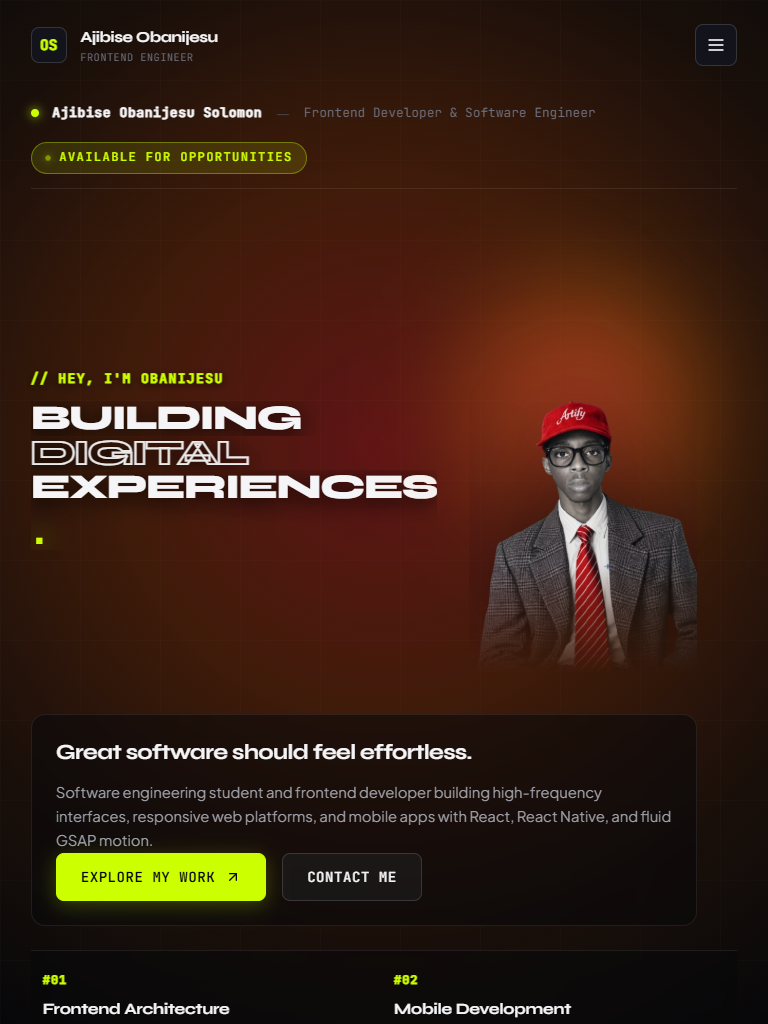
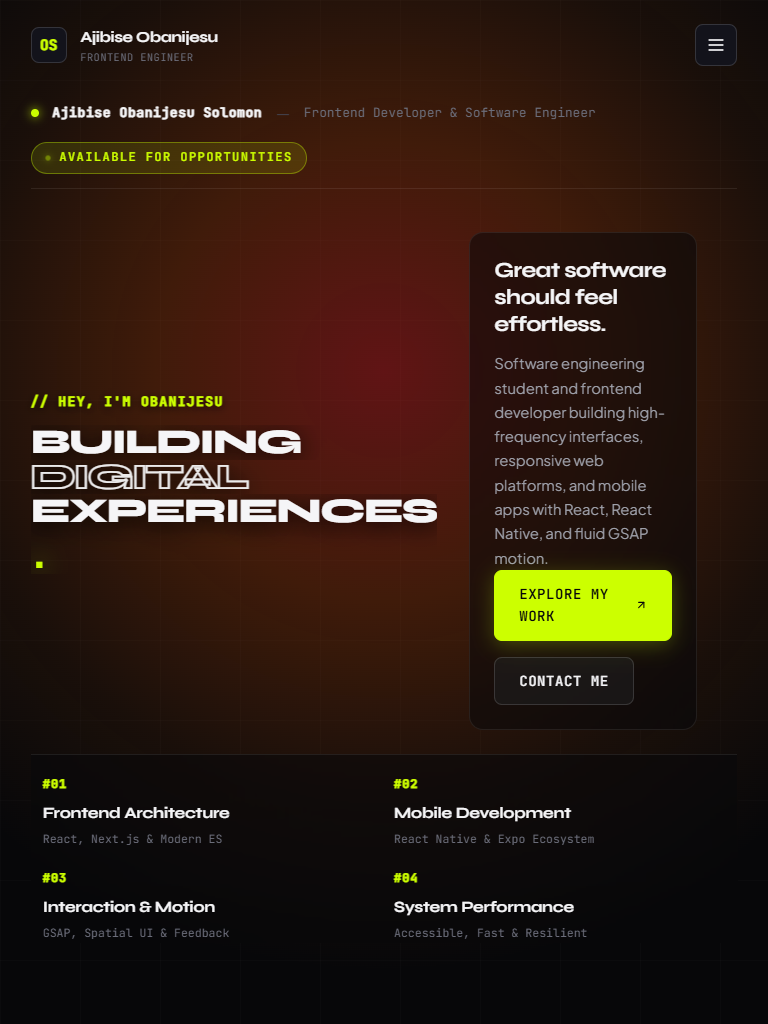
Hero Image Removal

Changed region(s): [[0.0312, 0.2188, 0.9688, 1.0]]

diff --git a/src/sections/Hero.jsx b/src/sections/Hero.jsx
@@ -45,10 +45,13 @@ export default function Hero() {
         gsap.set(metaElements, { y: 20, opacity: 0 });
         gsap.set(subtextRef.current, { y: 24, opacity: 0 });
         gsap.set(ctaButtons, { y: 20, opacity: 0 });
-        gsap.set(portraitRef.current, { y: 40, opacity: 0, scale: 0.94 });
-        gsap.set(portraitGlowRef.current, { scale: 0.7, opacity: 0, xPercent: -50, yPercent: -50 });
+        // [PORTRAIT TEMPLATE - UNCOMMENT TO RESTORE PORTRAIT ANIMATION]
+        // if (portraitRef.current) gsap.set(portraitRef.current, { y: 40, opacity: 0, scale: 0.94 });
+        // if (portraitGlowRef.current) gsap.set(portraitGlowRef.current, { scale: 0.7, opacity: 0, xPercent: -50, yPercent: -50 });
         gsap.set(disciplineItems, { y: 20, opacity: 0 });
-        gsap.set(scrollIndicatorRef.current, { opacity: 0, y: -10 });
+        if (scrollIndicatorRef.current) {
+          gsap.set(scrollIndicatorRef.current, { opacity: 0, y: -10 });
+        }
 
         // Stage B: Coordinated Entrance
         const tl = gsap.timeline({
@@ -56,53 +59,38 @@ export default function Hero() {
           delay: 0.15,
         });
 
-        // 1. Radiant glow and portrait glide up
+        // 1. Headline reveals through clipping masks
         tl.to(
-          portraitGlowRef.current,
+          headlineLines,
           {
-            scale: 1,
+            yPercent: 0,
             opacity: 1,
-            xPercent: -50,
-            yPercent: -50,
-            duration: 1.2,
-            ease: 'power2.out',
+            duration: 1.05,
+            stagger: 0.12,
+            ease: 'power4.out',
           },
-          0
+          0.1
+        );
+
+        // [PORTRAIT ENTRANCE TEMPLATE - UNCOMMENT TO RESTORE PORTRAIT ENTRANCE]
+        // if (portraitGlowRef.current) {
+        //   tl.to(portraitGlowRef.current, { scale: 1, opacity: 1, xPercent: -50, yPercent: -50, duration: 1.2, ease: 'power2.out' }, 0);
+        // }
+        // if (portraitRef.current) {
+        //   tl.to(portraitRef.current, { y: 0, opacity: 1, scale: 1, duration: 1.1, ease: 'power3.out' }, 0.1);
+        // }
+
+        // 2. Metadata, manifesto, and CTAs stagger in
+        tl.to(
+          metaElements,
+          {
+            y: 0,
+            opacity: 1,
+            duration: 0.6,
+            stagger: 0.08,
+          },
+          0.3
         )
-          .to(
-            portraitRef.current,
-            {
-              y: 0,
-              opacity: 1,
-              scale: 1,
-              duration: 1.1,
-              ease: 'power3.out',
-            },
-            0.1
-          )
-          // 2. Headline reveals through clipping masks
-          .to(
-            headlineLines,
-            {
-              yPercent: 0,
-              opacity: 1,
-              duration: 1.05,
-              stagger: 0.12,
-              ease: 'power4.out',
-            },
-            0.2
-          )
-          // 3. Metadata, manifesto, and CTAs stagger in
-          .to(
-            metaElements,
-            {
-              y: 0,
-              opacity: 1,
-              duration: 0.6,
-              stagger: 0.08,
-            },
-            0.4
-          )
           .to(
             subtextRef.current,
             {
@@ -132,8 +120,10 @@ export default function Hero() {
               stagger: 0.08,
             },
             0.7
-          )
-          .to(
+          );
+
+        if (scrollIndicatorRef.current) {
+          tl.to(
             scrollIndicatorRef.current,
             {
               opacity: 1,
@@ -142,6 +132,7 @@ export default function Hero() {
             },
             0.8
           );
+        }
 
         // Stage D: Scroll-linked transition into the Project Showcase
         const scrollTl = gsap.timeline({
@@ -154,17 +145,12 @@ export default function Hero() {
           },
         });
 
+        // [PORTRAIT SCROLL TEMPLATE - UNCOMMENT TO RESTORE PORTRAIT SCROLL]
+        // if (portraitRef.current) {
+        //   scrollTl.to(portraitRef.current, { y: 80, scale: 0.95, opacity: 0.25, ease: 'none' }, 0);
+        // }
+
         scrollTl
-          .to(
-            portraitRef.current,
-            {
-              y: 80,
-              scale: 0.95,
-              opacity: 0.25,
-              ease: 'none',
-            },
-            0
-          )
           .to(
             headlineRef.current,
             {
@@ -201,8 +187,10 @@ export default function Hero() {
               ease: 'none',
             },
             0
-          )
-          .to(
+          );
+
+        if (scrollIndicatorRef.current) {
+          scrollTl.to(
             scrollIndicatorRef.current,
             {
               opacity: 0,
@@ -210,6 +198,7 @@ export default function Hero() {
             },
             0
           );
+        }
       });
 
       return () => mm.revert();
@@ -375,7 +364,7 @@ export default function Hero() {
                   letterSpacing: '-0.04em',
                   textTransform: 'uppercase',
                   color: 'transparent',
-                  WebkitTextStroke: '1.75px rgba(245, 245, 247, 0.95)',
+                  WebkitTextStroke: '2px rgba(245, 245, 247, 0.95)',
                   textShadow: '0 4px 24px rgba(0, 0, 0, 0.95)',
                 }}
               >
@@ -384,50 +373,55 @@ export default function Hero() {
             </div>
 
             <div className="text-mask-wrapper">
-              <h1
-                className="hero-headline-line hero-title-word"
-                style={{
-                  fontSize: 'clamp(2.4rem, 5.8vw, 5.8rem)',
-                  fontWeight: '800',
-                  lineHeight: 0.95,
-                  letterSpacing: '-0.04em',
-                  textTransform: 'uppercase',
-                  color: 'var(--text-primary)',
-                  display: 'inline-block',
-                  textShadow: '0 4px 24px rgba(0, 0, 0, 0.95)',
-                }}
-              >
-                EXPERIENCES
-              </h1>
-              <span
-                className="hero-headline-line hero-title-word"
-                style={{
-                  fontSize: 'clamp(2.4rem, 5.8vw, 5.8rem)',
-                  fontWeight: '800',
-                  color: 'var(--accent)',
-                  lineHeight: 0.95,
-                  letterSpacing: '-0.04em',
-                  display: 'inline-block',
-                  textShadow: '0 0 25px var(--accent)',
-                }}
-              >
-                .
+              <span style={{ display: 'inline-flex', alignItems: 'baseline', whiteSpace: 'nowrap' }}>
+                <h1
+                  className="hero-headline-line hero-title-word"
+                  style={{
+                    fontSize: 'clamp(2.4rem, 5.8vw, 5.8rem)',
+                    fontWeight: '800',
+                    lineHeight: 0.95,
+                    letterSpacing: '-0.04em',
+                    textTransform: 'uppercase',
+                    color: 'var(--text-primary)',
+                    display: 'inline-block',
+                    textShadow: '0 4px 24px rgba(0, 0, 0, 0.95)',
+                  }}
+                >
+                  EXPERIENCES
+                </h1>
+                <span
+                  className="hero-headline-line hero-title-word"
+                  style={{
+                    fontSize: 'clamp(2.4rem, 5.8vw, 5.8rem)',
+                    fontWeight: '800',
+                    color: 'var(--accent)',
+                    lineHeight: 0.95,
+                    letterSpacing: '-0.04em',
+                    display: 'inline-block',
+                    textShadow: '0 0 25px var(--accent)',
+                  }}
+                >
+                  .
+                </span>
               </span>
             </div>
           </div>
 
-          {/* Centerpiece / Background Portrait Stage */}
+          {/* ======================================================================
+              [PORTRAIT TEMPLATE - COMMENTED OUT]
+              Uncomment the block below whenever you wish to restore the studio
+              portrait and radiant halo. All CSS rules & GSAP templates are preserved.
+              ====================================================================== */}
+          {/*
           <div ref={portraitRef} className="hero-portrait-stage">
-            {/* Radiant halo directly behind portrait head & shoulders */}
             <div ref={portraitGlowRef} className="hero-portrait-glow" />
-
-            {/* Subject Cutout Image */}
             <img
               src="/portrait.png"
               alt={PERSONAL_INFO.name}
               className="hero-portrait-img"
             />
           </div>
+          */}
 
           {/* Right Column: Supporting Manifesto & CTAs */}
           <div className="hero-manifesto-column">
@@ -541,6 +535,30 @@ export default function Hero() {
             </div>
           ))}
         </div>
+
+        {/* Subtle scroll indicator */}
+        <div
+          ref={scrollIndicatorRef}
+          className="hero-scroll-indicator"
+          style={{
+            display: 'flex',
+            alignItems: 'center',
+            justifyContent: 'center',
+            gap: '0.5rem',
+            paddingTop: '1.5rem',
+            paddingBottom: '0.25rem',
+            color: 'var(--text-dim)',
+            fontFamily: 'var(--font-mono)',
+            fontSize: '0.74rem',
+            letterSpacing: '0.1em',
+            textTransform: 'uppercase',
+            position: 'relative',
+            zIndex: 10,
+          }}
+        >
+          <ArrowDown size={14} style={{ color: 'var(--accent)' }} />
+          <span>Scroll to explore projects</span>
+        </div>
       </div>
 
       {/* Responsive media rules across Desktop, Tablet, and Mobile */}
@@ -586,8 +604,13 @@ export default function Hero() {
           .hero-headline-column {
             position: relative;
             z-index: 10;
-            max-width: clamp(360px, 46vw, 620px);
-            flex: 1 1 50%;
+            max-width: min(720px, calc(100% - 410px));
+            flex: 1 1 auto;
+          }
+          .hero-headline-column h1,
+          .hero-headline-column .hero-title-word {
+            font-size: clamp(2.2rem, 3.8vw, 4.2rem) !important;
+            line-height: 0.94 !important;
           }
           .hero-portrait-stage {
             position: absolute;
@@ -644,20 +667,22 @@ export default function Hero() {
             min-height: auto !important;
           }
           .hero-editorial-overlay {
-            display: grid !important;
-            grid-template-columns: 1.15fr 0.85fr !important;
+            display: flex !important;
+            flex-direction: column !important;
             gap: 2rem !important;
-            align-items: center !important;
+            align-items: flex-start !important;
             margin: 1.5rem 0 !important;
             position: relative !important;
           }
           .hero-headline-column {
             order: 1 !important;
             max-width: 100% !important;
+            width: 100% !important;
           }
-          .hero-headline-column h1 {
-            font-size: clamp(2rem, 4.5vw, 3.2rem) !important;
-            line-height: 1.0 !important;
+          .hero-headline-column h1,
+          .hero-headline-column .hero-title-word {
+            font-size: clamp(2.8rem, 6.2vw, 4.4rem) !important;
+            line-height: 0.95 !important;
           }
           .hero-portrait-stage {
             order: 2 !important;
@@ -684,8 +709,7 @@ export default function Hero() {
             filter: blur(45px) !important;
           }
           .hero-manifesto-column {
-            order: 3 !important;
-            grid-column: 1 / -1 !important;
+            order: 2 !important;
             max-width: 100% !important;
             margin: 0 !important;
             backdrop-filter: blur(8px) !important;
@@ -693,6 +717,11 @@ export default function Hero() {
             padding: 1.5rem !important;
             border-radius: 14px !important;
             border: 1px solid rgba(255, 255, 255, 0.08) !important;
+          }
+          /* When portrait stage template is uncommented, manifesto spans across beneath it */
+          .hero-portrait-stage ~ .hero-manifesto-column {
+            grid-column: 1 / -1 !important;
+            order: 3 !important;
           }
           .hero-disciplines-bar {
             display: grid !important;
@@ -722,12 +751,14 @@ export default function Hero() {
           .hero-headline-column {
             order: 1 !important;
             max-width: 100% !important;
+            width: 100% !important;
             text-align: left !important;
           }
-          .hero-headline-column h1 {
-            font-size: clamp(1.65rem, 7.5vw, 2.25rem) !important;
-            line-height: 1.0 !important;
-            letter-spacing: -0.03em !important;
+          .hero-headline-column h1,
+          .hero-headline-column .hero-title-word {
+            font-size: clamp(1.4rem, 6.7vw, 2.2rem) !important;
+            line-height: 0.96 !important;
+            letter-spacing: -0.035em !important;
           }
           .hero-portrait-stage {
             order: 2 !important;
